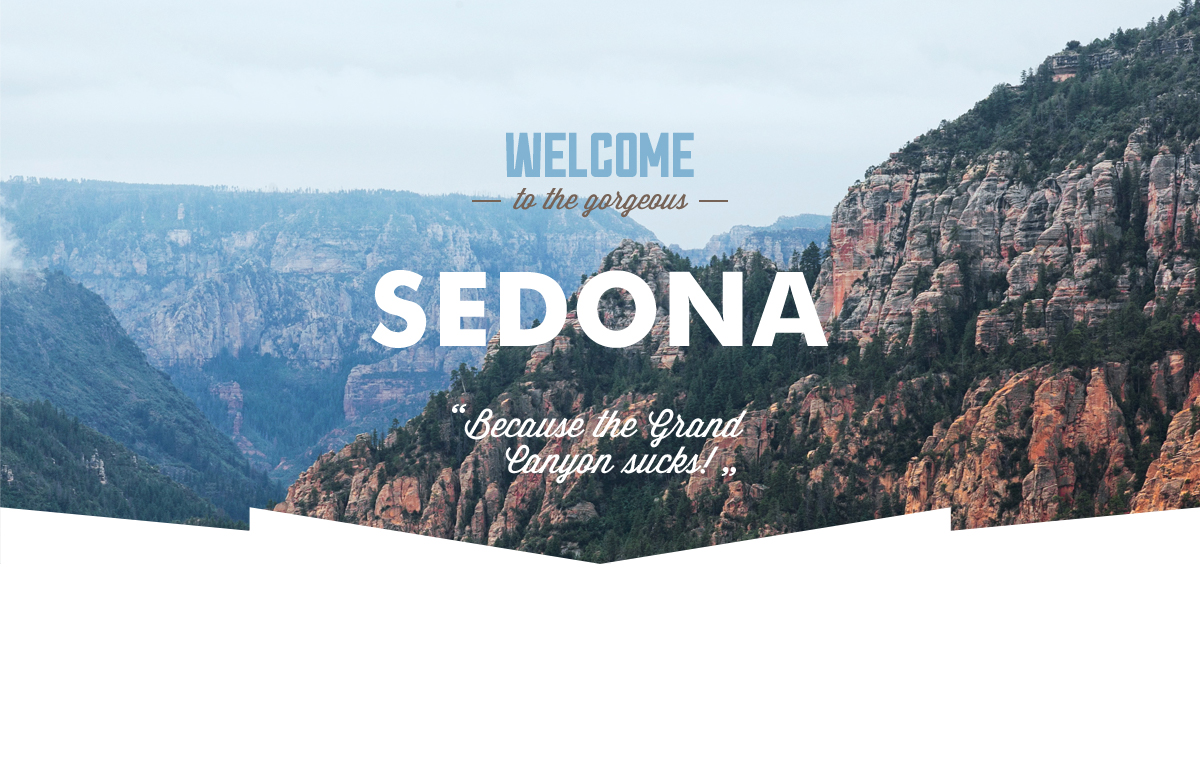
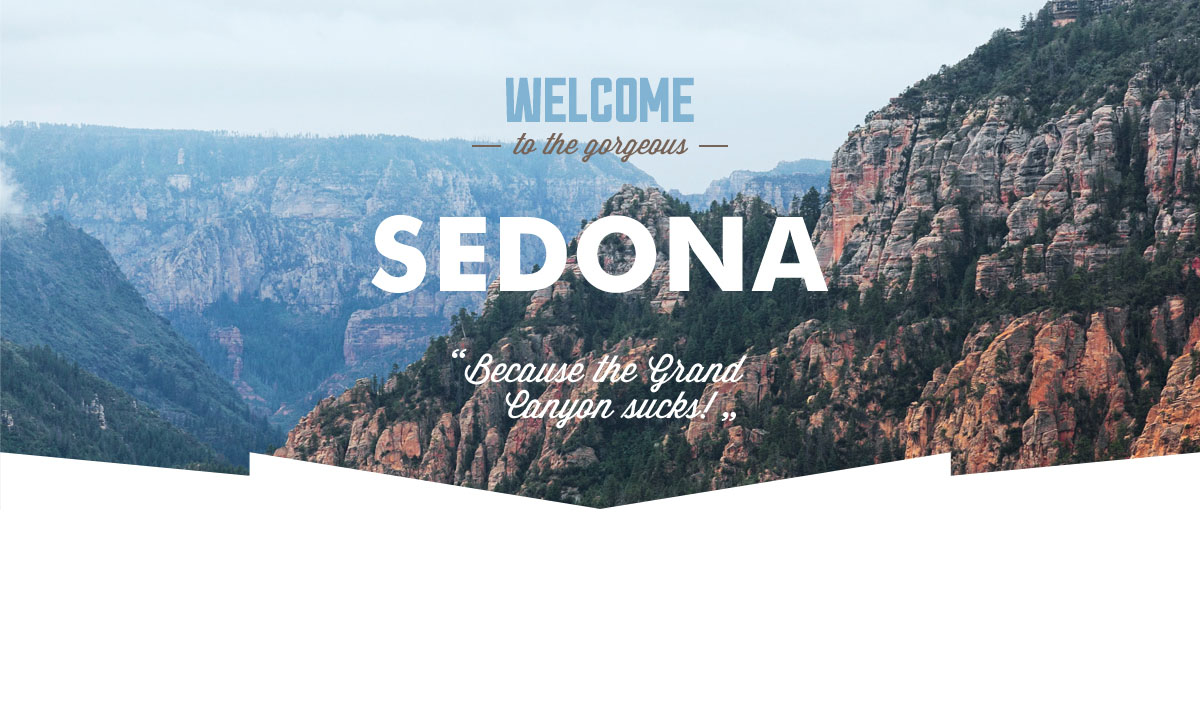
small elements in index

diff --git a/css/style.css b/css/style.css
@@ -27,8 +27,8 @@ body{
 	width: 1200px;
 	padding: 0;
 	padding-top:13px;
-	margin-top:0;
-	margin-bottom: 16px;
+	margin:0;
+	padding-bottom: 16px;
 }
 .nav-list a{
 	color:rgb(0,0,0);
@@ -38,9 +38,9 @@ body{
 	color:#766357;
 }
 .menu-item:first-child{ 
-width: 240px; 
-padding-left:70px; 
-box-sizing: border-box;
+    width: 240px; 
+    padding-left:70px; 
+    box-sizing: border-box;
 	text-align: left;
 }
 .menu-item:nth-child(2) {
@@ -67,9 +67,9 @@ text-align: right;
 .logo{
 	position: absolute;
 	top: 0;
-left: 50%;
-transform: translateX(-50%);
-z-index: 2;
+    left: 50%;
+    transform: translateX(-50%);
+    z-index: 2;
 }
 
 .photo{
@@ -81,21 +81,24 @@ z-index: 2;
 	width: 600px;
 	position: absolute;
 	bottom: 50px;
-	padding:0 300px;
-	vertical-align: middle;
+	padding-right: 300px;
+	padding-left: 300px;
 	text-align: center;
+	margin: 0;
 }
 .tagline h2{
-  font-size: 21px;
-  color: rgb(0, 0, 0);
-  font-weight: bold;
-  line-height: 1.238;
+    font-size: 21px;
+    color: rgb(0, 0, 0);
+    font-weight: bold;
+    line-height: 1.238;
 }
-
 .tagline p{
+	display: inline-block;
+	margin: 0;
   font-size: 14px;
   color: rgb(51, 51, 51);
   line-height: 1.857;
+  padding-top: 15px;
 }
 .features-blue{
 	display: flex;
@@ -105,33 +108,44 @@ z-index: 2;
 	justify-content: flex-start;
 }
 .features-blue .reason-item{
-	display: block;
-	width: 310px;
+	width: 400px;
 	background-color: rgb(129, 179, 210);
-	padding: 50px 45px 40px 45px;
+	padding-bottom: 49px;
+	padding-top: 45px;
 }
 .features-blue .reason-image{
 	display: block;
 	width: 800px;
 }
 .reason-item h2{
-  font-size: 21px;
-  color: rgb(255, 255, 255);
-  font-weight: bold;
-  line-height: 1;
-  text-align: center;
-}
-.reason-item p{
-  font-size: 14px;
-  color: rgb(255, 255, 255);
-  text-align: center;
-  line-height: 1;
-  vertical-align: middle;
+	display: inline-block;
+	margin:0;
+    font-size: 21px;
+    color: rgb(255, 255, 255);
+    font-weight: bold;
+    line-height: 21px;
+    text-align: center; 
+    padding:0 124px;
 }
 .reason-item span{
-  font-size: 14px;
-  color: rgb(255, 255, 255);
-  text-align: center;
+	display: inline-block;
+	margin:0;
+    font-size: 14px;
+    color: rgb(255, 255, 255);
+    text-align: center;
+    vertical-align: middle;
+    margin-top: 25px;
+    padding-left:175px;
+}
+.reason-item p{
+	display: inline-block;
+    font-size: 14px;
+    color: rgb(255, 255, 255);
+    text-align: center;
+    line-height: 21px;
+    vertical-align: middle;
+    padding:0 48px;
+    padding-top: 10px;
 }
 .advantages{
 	display: flex;
@@ -141,24 +155,35 @@ z-index: 2;
 	justify-content: flex-start;
 }
 .advantages-item{
+	position: relative;
 	display: block;
-	width: 310px;
-	padding: 160px 45px 82px 45px;
+	width: 400px;
+	padding: 160px 50px 70px 50px;
 	text-align: center;
+	margin:0;
 }
 .advantages-item:last-child{
 	margin-right: 0;
+}
+.advantages-item img{
+	position: absolute;
+	top:55px;
+	right:160px;
 }
 .advantages-item h2{
   font-size: 21px;
   color: rgb(0, 0, 0);
   font-weight: bold;
   text-align: center; 
+  line-height: 21px;
+  margin:0;
   vertical-align: middle;
+  padding-bottom: 5px;
 }
 .advantages-item p{
   font-size: 14px;
   color: rgb(0, 0, 0);
+  line-height: 21px;
   font-weight:normal;
   text-align: center; 
 }
@@ -168,31 +193,35 @@ z-index: 2;
 	flex-direction: row;
 	align-items: center;
 	justify-content: flex-start;
+	margin:0;
 }
 .features-grey .reason-item{
-	display: block;
-	width: 295px;
+	width: 400px;
 	background-color: rgb(238, 238, 238);
-	padding: 50px 50px 60px 55px;
+	padding-bottom:62px;
+	padding-top: 50px
 }
 .features-grey .reason-item:last-child{
 	margin-right: 0;
 }
 .features-grey h2{
+	display: inline-block;
+	margin:0;
   font-size: 21px;
   color: rgb(51, 51, 51);
   font-weight: bold;
-  text-align: center;
   vertical-align: middle;
   line-height: 1; 
 }
 .features-grey p{
+	display: inline-block;
   font-size: 14px;
   color: rgb(51, 51, 51);
   text-align: center;
   vertical-align: middle;
 }
 .features-grey span{
+	display: inline-block;
   font-size: 14px;
   color: rgb(51, 51, 51);
   text-align: center;
@@ -201,20 +230,24 @@ z-index: 2;
 .more{
 	width: 1200px;
 	font-size: 0;
+	padding: 0;
+	margin:0;
 }
 .more h3{
   font-size: 30px;
   color: rgb(0, 0, 0);
   font-weight: bold;
   text-align: center;
+  padding-top: 25px;
 }
 .more p{
   font-size: 14px;
   color: rgb(0, 0, 0);
   font-weight: normal;
+  line-height: 24px;
   text-align: center;
 }
-.more a{
+.search a{
   font-size: 21px;
   color: rgb(255, 255, 255);
   font-weight: bold;
@@ -228,6 +261,7 @@ z-index: 2;
 	padding: 33px 135px 30px 135px;
 	background-color: rgb(118, 99, 87);
 	position: relative;
+	bottom:0;
 }
 .btn-search::before{
 	content: "";
@@ -345,8 +379,7 @@ z-index: 2;
   display: inline-block;
   vertical-align: top;
   position: relative;
-  margin-top: 5px;
-  margin-right: 5px;
+  margin-top: 7px;
 }
 .academy-btn{
 	display: inline-block;
@@ -670,7 +703,7 @@ input[type="checkbox"]:disabled:checked + label::after{
 }
 .sorting-view a,
 .sorting-rating a{
-	border-bottom:2px dotted rgb(129, 179, 210);
+	border-bottom:1px dotted rgb(129, 179, 210);
 	}
 
 .sorting-rating a:hover{

diff --git a/index.html b/index.html
@@ -31,18 +31,19 @@
         </div>
       </header>
 
-      <section class="photo clearfix">
-        <img src="img/mainphoto.jpg" width="1200" height="780" alt="Welcome_to_Sedona">
+      <section class="photo">
+        <img src="img/mainphoto.jpg" width="1200" height="724" alt="Welcome_to_Sedona">
         <div class="tagline">
-          <h2>Седона - небольшой городок в Аризоне, заслуживающий большего!</h2>
+          <h2>Седона &mdash; небольшой городок в Аризоне, заслуживающий большего!</h2>
           <p>Рассмотрим 5 причин, по которым Седона круче, чем Гранд Каньон!</p>
         </div>
       </section> 
+
       <section class="features features-blue">
         <div class="reason-item">
           <h2>Настоящий городок</h2>
-          <span>- №1 -</span>
-          <p>Седона - не аттракцион для туристов, там течет своя жизнь</p>
+          <span>&mdash; №1 &mdash;</span>
+          <p>Седона &mdash; не аттракцион для туристов, там течет своя жизнь</p>
         </div>
         <div class="reason-image">
           <img src="img/real-city.jpg" width="800" height="256" alt="Real_City">
@@ -73,7 +74,7 @@
         </div>
         <div class="reason-item">
           <h2>Там есть<br>мост дьявола</h2>
-          <span>- №2 -</span>
+          <span>&mdash;  №2  &mdash;</span>
           <p>Да, по нему можно пройти! Если конечно вы осмелитесь!</p>
         </div>
       </section>
@@ -81,17 +82,17 @@
       <section class="features features-grey">
         <div class="reason-item">
           <h2>Небольшая площадь</h2>
-          <span>- №3 -</span>
+          <span>&mdash; №3 &mdash;</span>
           <p>Все достопримечательности находятся очень близко</p>
         </div>
         <div class="reason-item">
           <h2>Красивая дорога</h2>
-          <span>- №4 -</span>
+          <span>&mdash; №4 &mdash;</span>
           <p>Ехать в Седону из Лас-Вегаса совсем не скучно!</p>
         </div>
         <div class="reason-item">
           <h2>Мало туристов</h2>
-            <span>- №5 -</span>
+            <span>&mdash; №5 &mdash;</span>
           <p>Большинство едет в Гранд Каньон и толпится там</p>
         </div>
       </section>
